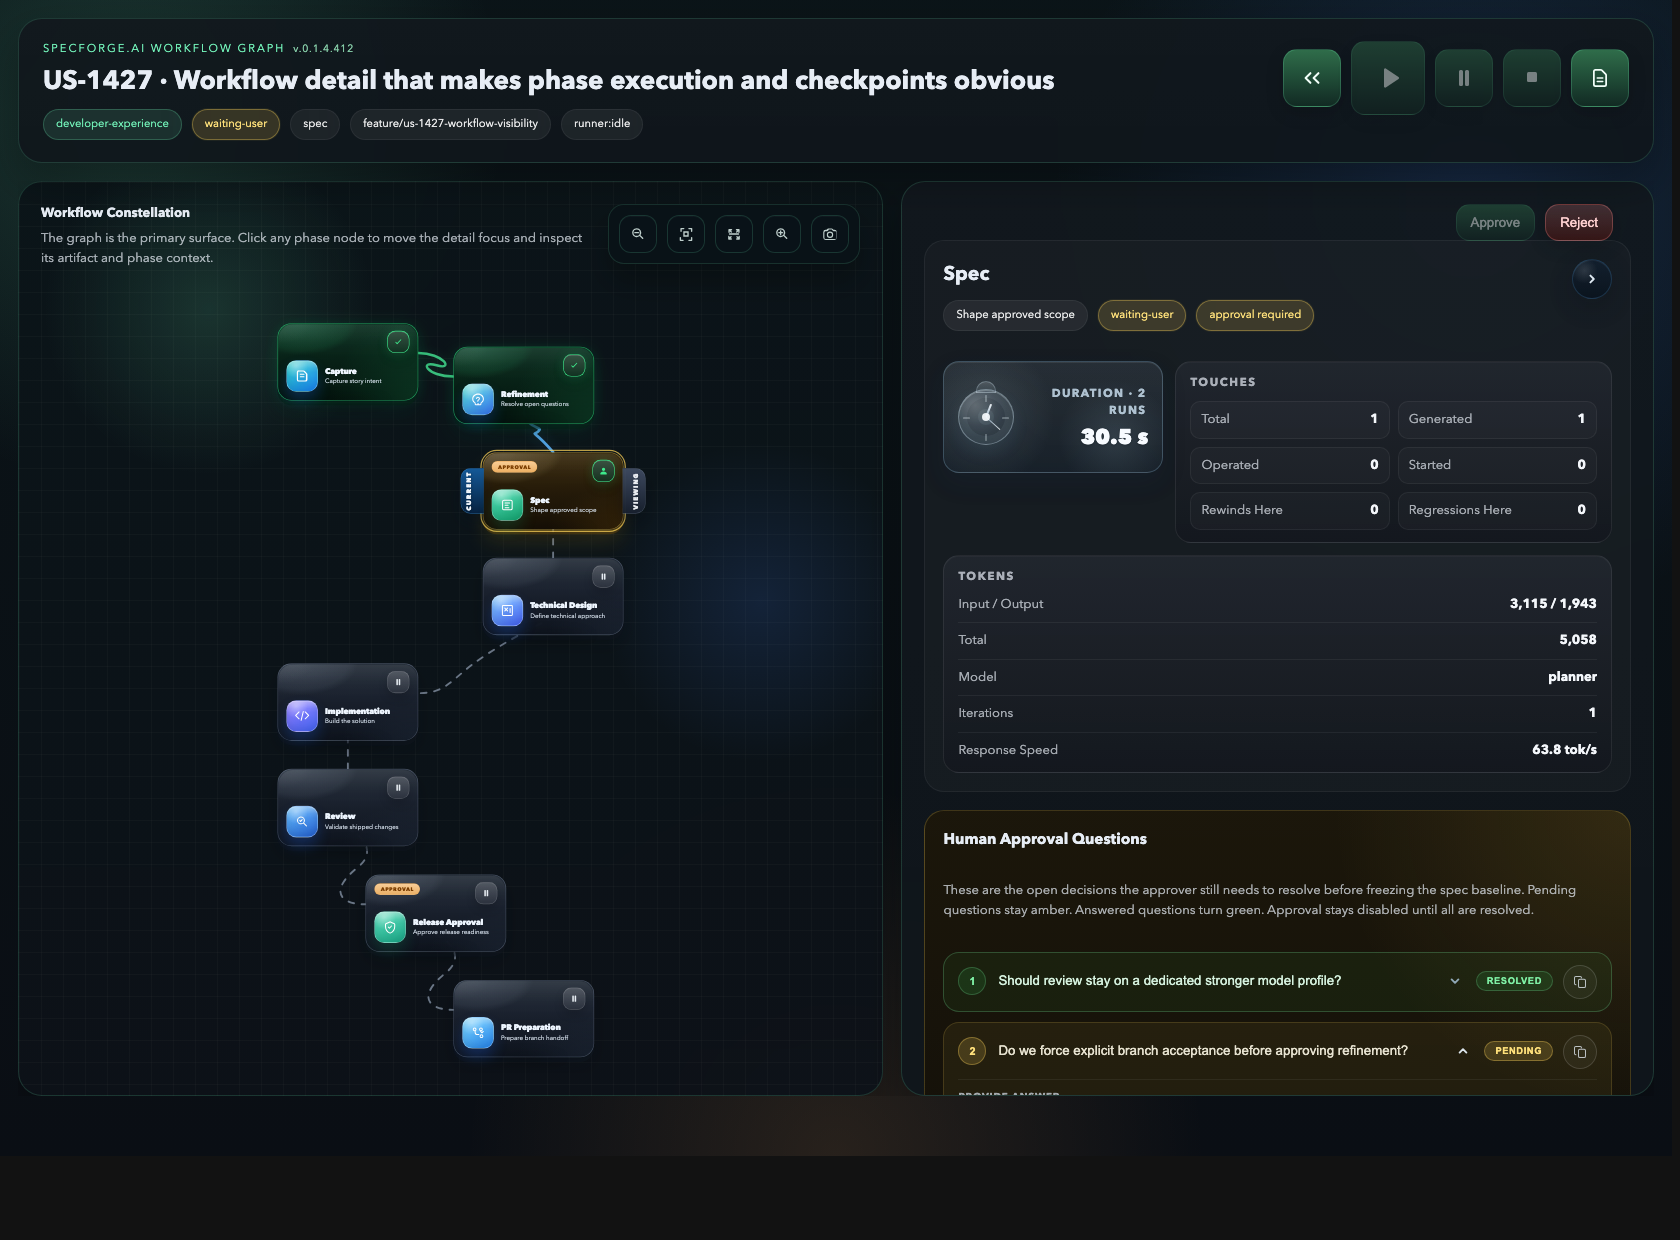
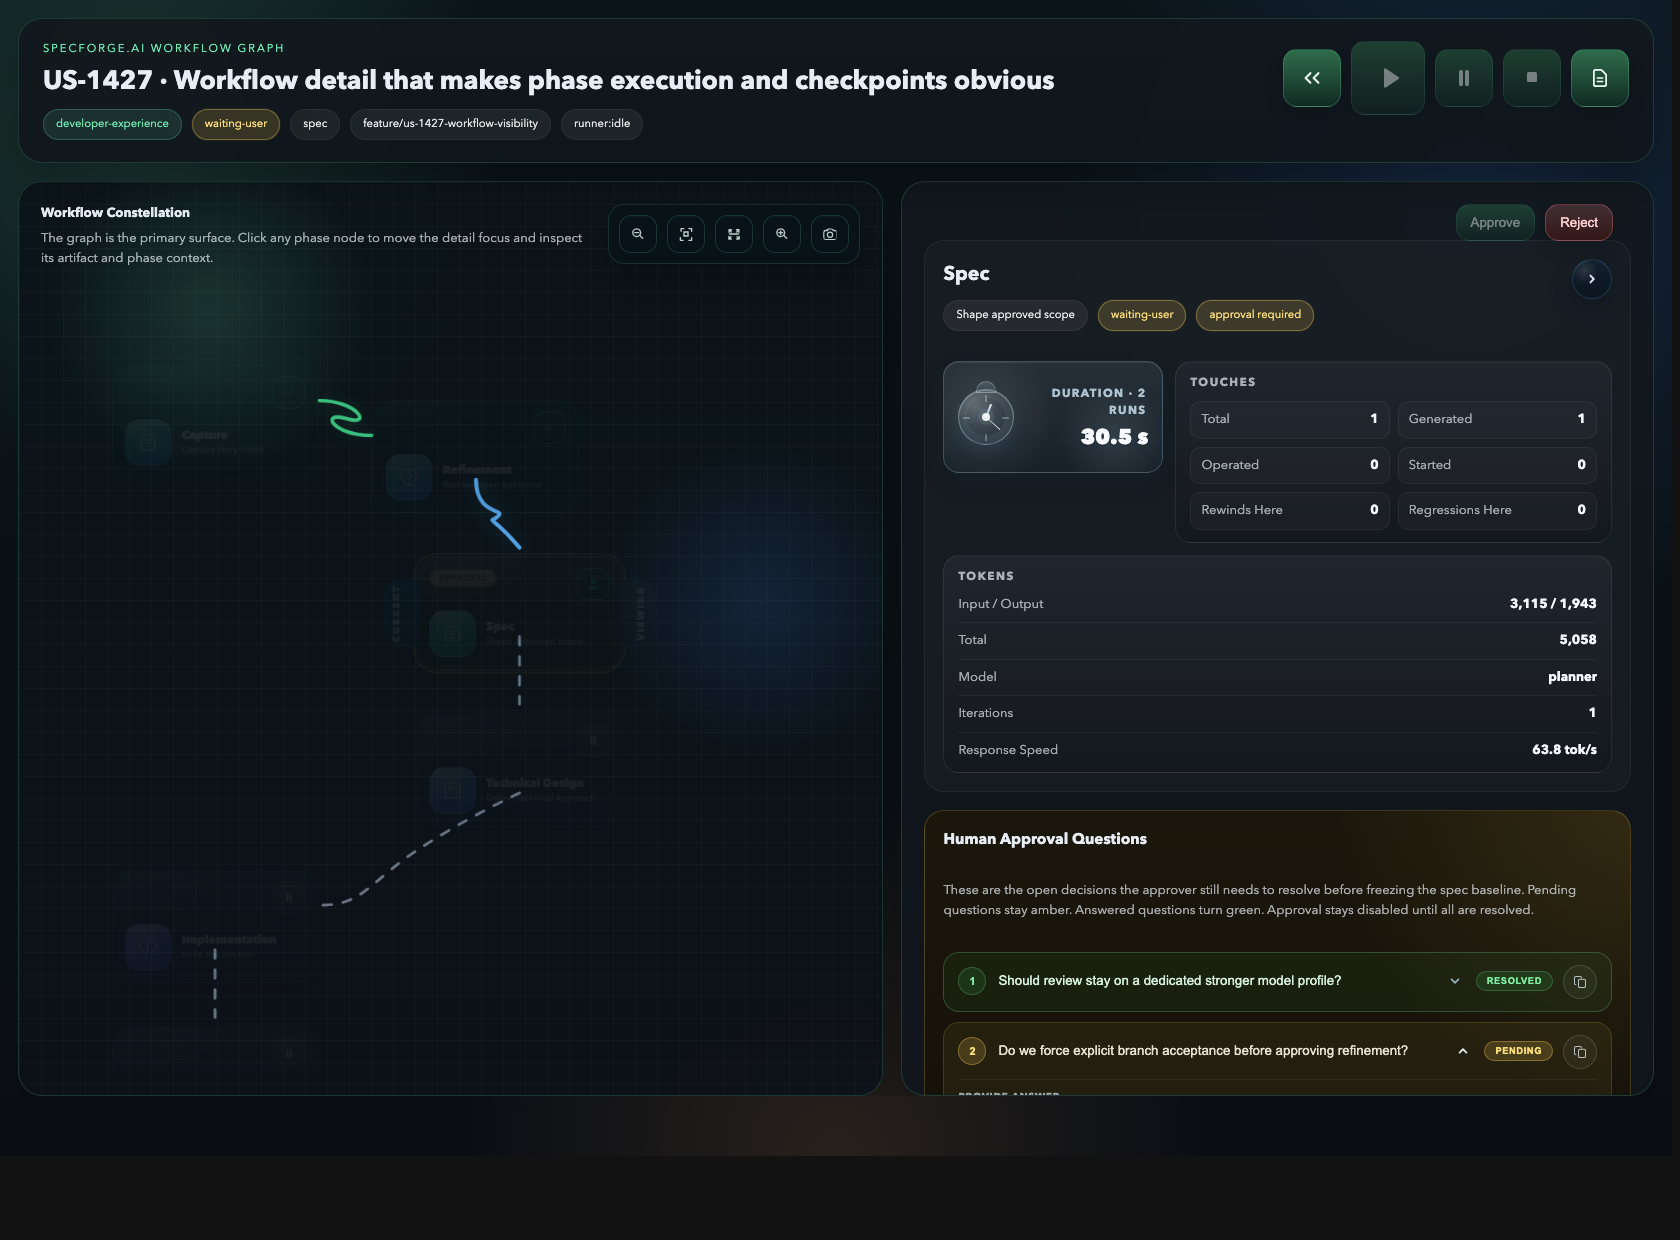
done remove stale version from workflow screenshots

diff --git a/tools/render-doc-screenshots.js b/tools/render-doc-screenshots.js
@@ -10,7 +10,6 @@ const { buildWorkflowHtml } = require("../dist/workflowView.js");
 const repoRoot = path.resolve(__dirname, "..");
 const docsImageDir = path.join(repoRoot, "doc", "images");
 const edgeBinary = "/Applications/Microsoft Edge.app/Contents/MacOS/Microsoft Edge";
-const runtimeVersion = fs.readFileSync(path.join(repoRoot, "version.nfo"), "utf8").trim();
 
 if (!fs.existsSync(edgeBinary)) {
   throw new Error(`Microsoft Edge was not found at '${edgeBinary}'.`);
@@ -372,7 +371,7 @@ Reframe the workflow screen so model routing and approval checkpoints are explic
         contextSuggestions: [],
         settingsConfigured: true,
         settingsMessage: null,
-        runtimeVersion,
+        runtimeVersion: null,
         phaseModelAssignments: {
           defaultProfileName: "planner",
           implementationProfileName: "codex-main",
@@ -453,7 +452,7 @@ The workflow is blocked until the operator confirms where the model should surfa
         ],
         settingsConfigured: true,
         settingsMessage: null,
-        runtimeVersion,
+        runtimeVersion: null,
         phaseModelAssignments: {
           defaultProfileName: "planner",
           implementationProfileName: "codex-main",
@@ -493,7 +492,7 @@ The workflow has started playback and is advancing into the next executable phas
         contextSuggestions: [],
         settingsConfigured: true,
         settingsMessage: null,
-        runtimeVersion,
+        runtimeVersion: null,
         phaseModelAssignments: {
           defaultProfileName: "planner",
           implementationProfileName: "codex-main",
